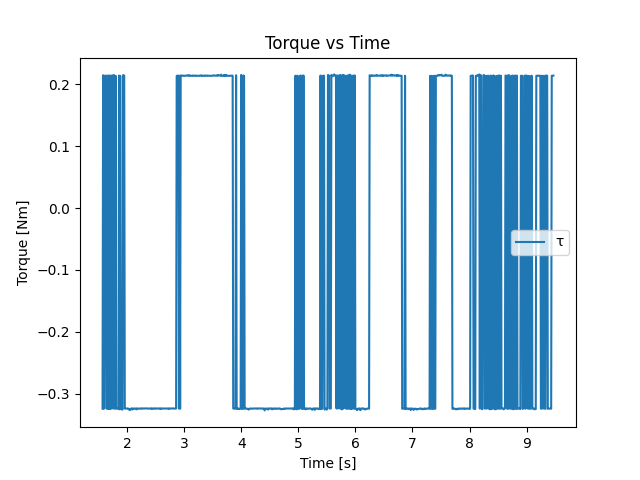
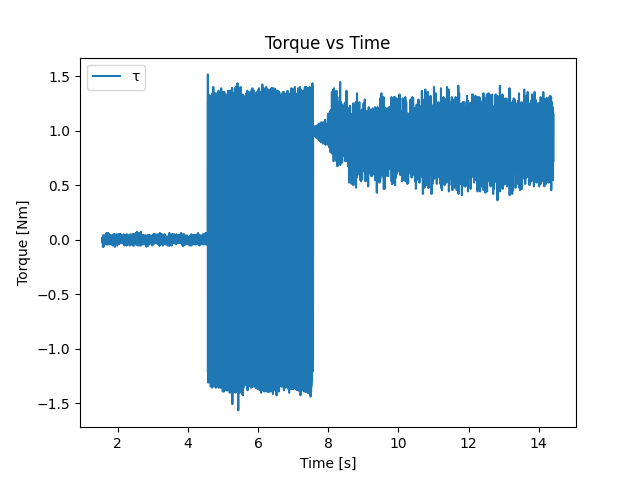
Added demo of all features

diff --git a/src/TMotorCANControl/test/full_feature_demo.py b/src/TMotorCANControl/test/full_feature_demo.py
@@ -1,0 +1,83 @@
+from NeuroLocoMiddleware.SoftRealtimeLoop import SoftRealtimeLoop
+from NeuroLocoMiddleware.SysID import Chirp
+import numpy as np
+import time
+
+# try to import the default version, if that fails import from local directory
+try:
+     from TMotorCANControl.TMotorManager import TMotorManager
+except ModuleNotFoundError:
+    from sys import path
+    path.append("/home/pi/TMotorCANControl/src")
+    from TMotorCANControl.TMotorManager import TMotorManager
+
+
+with TMotorManager(motor_type='AK80-9', motor_ID=3, CSV_file="log.csv") as dev:
+    dev.zero_position() # has a delay!
+    time.sleep(1.75)
+    dev.set_impedance_gains_real_unit_full_state_feedback(K=10,B=1)
+    chirp_slow = Chirp(250, 200, 1)
+    loop = SoftRealtimeLoop(dt = 0.001, report=True, fade=0)
+    amp = 1.0
+    
+    # start in current mode
+    state = 0
+    dev.set_current_gains() 
+    
+    delta = 5
+    t_next=delta
+    print("(1 of 8) Setting torque to 0.0 Nm")
+
+    for t in loop:
+        dev.update()
+        if(t > t_next):
+            state += 1
+            if state == 1:
+                print("(2 of 8) Chirping")
+                dev.set_current_gains()
+            elif state == 2:
+                print("(3 of 8) Zeroing Position K = 1.0 B =0.05")
+                dev.set_impedance_gains_real_unit(K=1.0,B=0.05)
+            elif state == 3:
+                print("(4 of 8) Zeroing Position K = 10 B =0.5")
+                dev.set_impedance_gains_real_unit(K=10.0,B=0.5)
+            elif state == 4:
+                print("(5 of 8) Tracking sinusoidal trajectory")
+                dev.set_impedance_gains_real_unit(K=10.0,B=0.5)
+            elif state == 5:
+                print("(6 of 8) Full state feedback. Chirping during impedance control!")
+                dev.set_impedance_gains_real_unit_full_state_feedback(K=10.0,B=0.5)
+            elif state == 6:
+                print("(7 of 8) Setting torque to 0.5 Nm")
+                dev.set_current_gains()
+            elif state == 7:
+                print("(8 of 8) Setting current to -0.5 A")
+                dev.set_current_gains()
+            elif state == 8:
+                print("Done! Press ctrl+C to exit.")
+                dev.set_current_gains()
+                dev.i = 0.0
+
+            t_next += delta
+                
+        if state == 0:
+            dev.τ = 0.0
+        elif state == 1:
+            dev.τ = loop.fade*amp*chirp_slow.next(t)*3/3.7
+        elif state == 2:
+            dev.θ = 0.0
+        elif state == 3:
+            dev.θ = 0.0
+        elif state == 4:
+            dev.θ = 0.5*np.sin(np.pi*t)
+        elif state == 5:
+            dev.θ = 0.5*np.sin(np.pi*t)
+            dev.τ = loop.fade*amp*chirp_slow.next(t)*3/3.7
+        elif state == 6:
+            dev.τ = 0.5
+        elif state == 7:
+            dev.i = -0.5
+        else:
+            dev.i=0.0
+
+    del loop

diff --git a/src/TMotorCANControl/test/test_current_chirp.py b/src/TMotorCANControl/test/test_current_chirp.py
@@ -1,8 +1,11 @@
 from NeuroLocoMiddleware.SoftRealtimeLoop import SoftRealtimeLoop
 from NeuroLocoMiddleware.SysID import Chirp
-from sys import path
-path.append("/home/pi/TMotorCANControl/src")
-from TMotorCANControl.TMotorManager import TMotorManager
+try:
+     from TMotorCANControl.TMotorManager import TMotorManager
+except ModuleNotFoundError:
+    from sys import path
+    path.append("/home/pi/TMotorCANControl/src")
+    from TMotorCANControl.TMotorManager import TMotorManager
 
 def chirp_demo(dev, amp=1.0, dt=0.001):
     print("Chirping ActPackA. Press CTRL-C to finish.")
@@ -18,7 +21,7 @@ def chirp_demo(dev, amp=1.0, dt=0.001):
 
 def main():
     with TMotorManager(motor_type='AK80-9', motor_ID=3, CSV_file="log.csv") as dev:
-        chirp_demo(dev, amp=1.0)
+        chirp_demo(dev, amp=3.0)
     print("done with chirp_demo()")
 
 if __name__ == '__main__':

diff --git a/src/TMotorCANControl/test/test_torque_step.py b/src/TMotorCANControl/test/test_torque_step.py
@@ -1,7 +1,12 @@
-from sys import path
-path.append("/home/pi/TMotorCANControl/src")
+try:
+     from TMotorCANControl.TMotorManager import TMotorManager
+except ModuleNotFoundError:
+    from sys import path
+    path.append("/home/pi/TMotorCANControl/src")
+    from TMotorCANControl.TMotorManager import TMotorManager
+    
 from NeuroLocoMiddleware.SoftRealtimeLoop import SoftRealtimeLoop
-from TMotorCANControl.TMotorManager import TMotorManager
+
 import time
 
 
@@ -16,6 +21,6 @@ with TMotorManager(motor_type='AK80-9', motor_ID=3, CSV_file="log.csv") as dev:
         if t < 1.0:
             dev.τ = 0.0
         else:
-            dev.τ = 0.0
+            dev.τ = 1.0
 
     del loop

diff --git a/src/TMotorCANControl/CAN_Manager.py b/src/TMotorCANControl/CAN_Manager.py
@@ -143,7 +143,7 @@ class CAN_Manager(object):
             # start the CAN bus back up
             os.system( 'sudo /sbin/ip link set can0 up type can bitrate 1000000' )
             # create a python-can bus object
-            cls._instance.bus = can.interface.Bus(channel='can0', bustype='socketcan_native')
+            cls._instance.bus = can.interface.Bus(channel='can0', bustype='socketcan')# bustype='socketcan_native')
             # create a python-can notifier object, which motors can later subscribe to
             cls._instance.notifier = can.Notifier(bus=cls._instance.bus, listeners=[])
             print("Connected on: " + str(cls._instance.bus))

diff --git a/src/TMotorCANControl/test/test_mit_poscon.py b/src/TMotorCANControl/test/test_mit_poscon.py
@@ -1,10 +1,14 @@
 from NeuroLocoMiddleware.SoftRealtimeLoop import SoftRealtimeLoop
-from TMotorCANControl.TMotorManager import TMotorManager
+try:
+     from TMotorCANControl.TMotorManager import TMotorManager
+except ModuleNotFoundError:
+    from sys import path
+    path.append("/home/pi/TMotorCANControl/src")
+    from TMotorCANControl.TMotorManager import TMotorManager
 import numpy as np
 import time
 
 with TMotorManager(motor_type='AK80-9', motor_ID=3, CSV_file="log.csv") as dev:
-    print(dev)
     dev.zero_position() # has a delay!
     time.sleep(1.5)
     dev.set_impedance_gains_real_unit(K=10,B=0.5)

diff --git a/src/TMotorCANControl/test/test_full_state_feedback.py b/src/TMotorCANControl/test/test_full_state_feedback.py
@@ -1,5 +1,12 @@
 from NeuroLocoMiddleware.SoftRealtimeLoop import SoftRealtimeLoop
-from TMotorCANControl.TMotorManager import TMotorManager
+
+# try to import the default version, if that fails import from local directory
+try:
+     from TMotorCANControl.TMotorManager import TMotorManager
+except ModuleNotFoundError:
+    from sys import path
+    path.append("/home/pi/TMotorCANControl/src")
+    from TMotorCANControl.TMotorManager import TMotorManager
 import numpy as np
 import time
 from NeuroLocoMiddleware.SysID import Chirp

diff --git a/src/TMotorCANControl/test/test_current_step.py b/src/TMotorCANControl/test/test_current_step.py
@@ -1,5 +1,10 @@
 from NeuroLocoMiddleware.SoftRealtimeLoop import SoftRealtimeLoop
-from TMotorCANControl.TMotorManager import TMotorManager
+try:
+     from TMotorCANControl.TMotorManager import TMotorManager
+except ModuleNotFoundError:
+    from sys import path
+    path.append("/home/pi/TMotorCANControl/src")
+    from TMotorCANControl.TMotorManager import TMotorManager
 import time
 
 with TMotorManager(motor_type='AK80-9', motor_ID=3, CSV_file="log.csv") as dev:

diff --git a/src/TMotorCANControl/test/test_position_wraparound.py b/src/TMotorCANControl/test/test_position_wraparound.py
@@ -1,5 +1,10 @@
 from NeuroLocoMiddleware.SoftRealtimeLoop import SoftRealtimeLoop
-from TMotorCANControl.TMotorManager import TMotorManager
+try:
+     from TMotorCANControl.TMotorManager import TMotorManager
+except ModuleNotFoundError:
+    from sys import path
+    path.append("/home/pi/TMotorCANControl/src")
+    from TMotorCANControl.TMotorManager import TMotorManager
 import time
 
 with TMotorManager(motor_type='AK80-9', motor_ID=3, CSV_file="log.csv") as dev:

diff --git a/src/TMotorCANControl/test/test_motor_connection.py b/src/TMotorCANControl/test/test_motor_connection.py
@@ -1,6 +1,9 @@
-from sys import path
-path.append("/home/pi/TMotorCANControl/src")
-from TMotorCANControl.TMotorManager import TMotorManager
+try:
+     from TMotorCANControl.TMotorManager import TMotorManager
+except ModuleNotFoundError:
+    from sys import path
+    path.append("/home/pi/TMotorCANControl/src")
+    from TMotorCANControl.TMotorManager import TMotorManager
 
 # CHANGE THESE TO MATCH YOUR dev!
 ID = 3

diff --git a/src/TMotorCANControl/test/test_position_step.py b/src/TMotorCANControl/test/test_position_step.py
@@ -1,5 +1,10 @@
 from NeuroLocoMiddleware.SoftRealtimeLoop import SoftRealtimeLoop
-from TMotorCANControl.TMotorManager import TMotorManager
+try:
+     from TMotorCANControl.TMotorManager import TMotorManager
+except ModuleNotFoundError:
+    from sys import path
+    path.append("/home/pi/TMotorCANControl/src")
+    from TMotorCANControl.TMotorManager import TMotorManager
 import numpy as np
 import time
 

diff --git a/src/TMotorCANControl/test/test_position_step_motorside.py b/src/TMotorCANControl/test/test_position_step_motorside.py
@@ -1,5 +1,10 @@
 from NeuroLocoMiddleware.SoftRealtimeLoop import SoftRealtimeLoop
-from TMotorCANControl.TMotorManager import TMotorManager
+try:
+     from TMotorCANControl.TMotorManager import TMotorManager
+except ModuleNotFoundError:
+    from sys import path
+    path.append("/home/pi/TMotorCANControl/src")
+    from TMotorCANControl.TMotorManager import TMotorManager
 import time
 
 logvars = [

diff --git a/src/TMotorCANControl/test/test_torque_step_motorside.py b/src/TMotorCANControl/test/test_torque_step_motorside.py
@@ -1,5 +1,10 @@
 from NeuroLocoMiddleware.SoftRealtimeLoop import SoftRealtimeLoop
-from TMotorCANControl.TMotorManager import TMotorManager
+try:
+     from TMotorCANControl.TMotorManager import TMotorManager
+except ModuleNotFoundError:
+    from sys import path
+    path.append("/home/pi/TMotorCANControl/src")
+    from TMotorCANControl.TMotorManager import TMotorManager
 import time
 
 logvars = [
